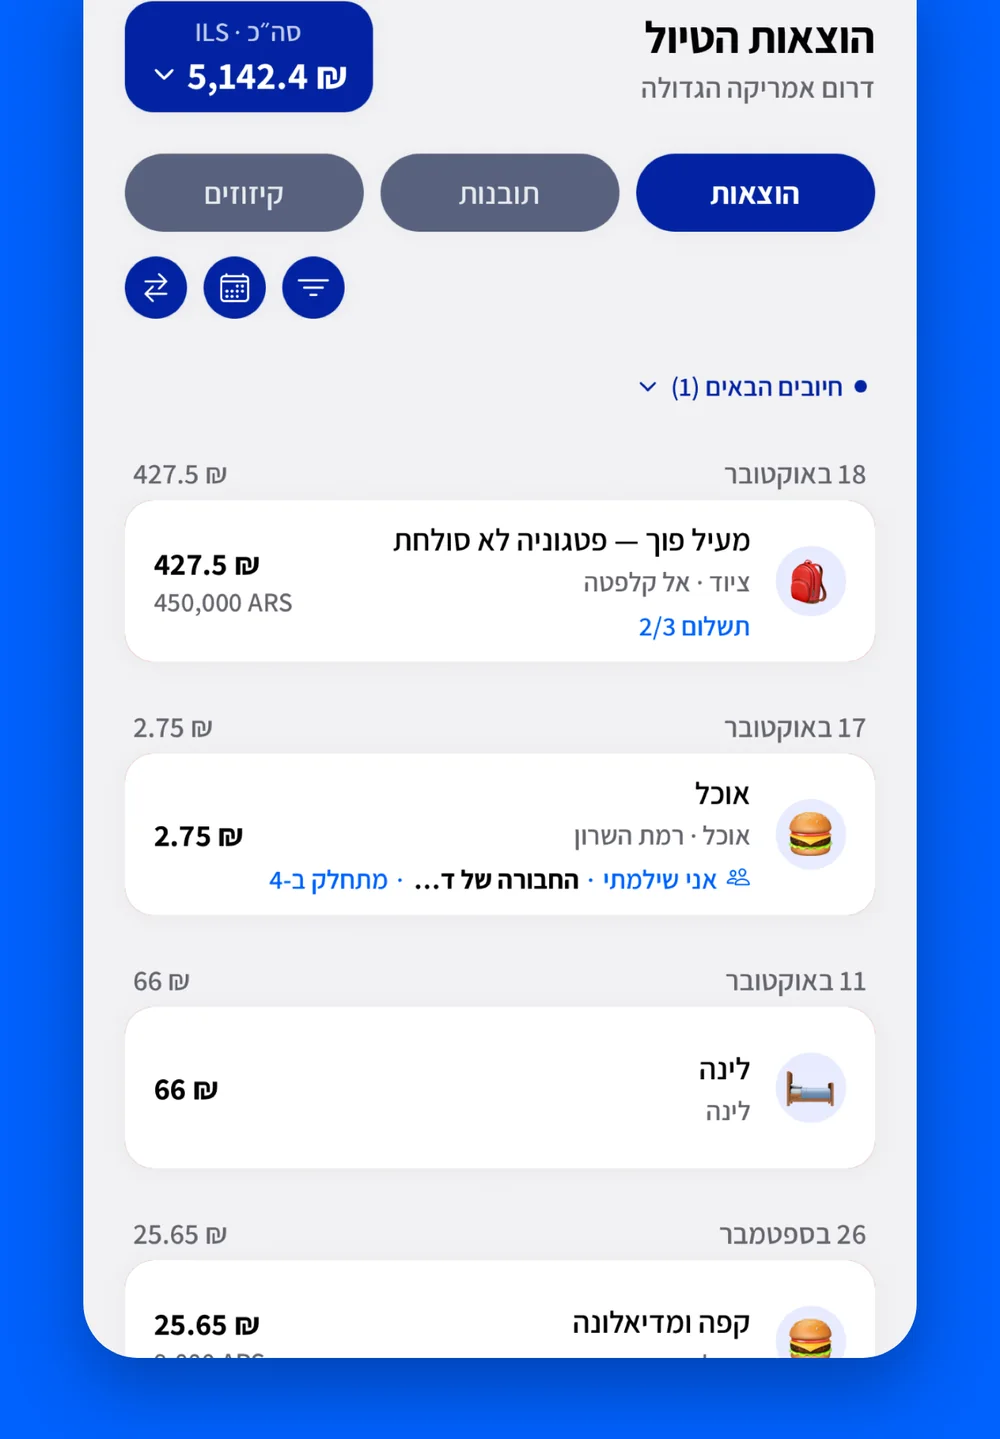
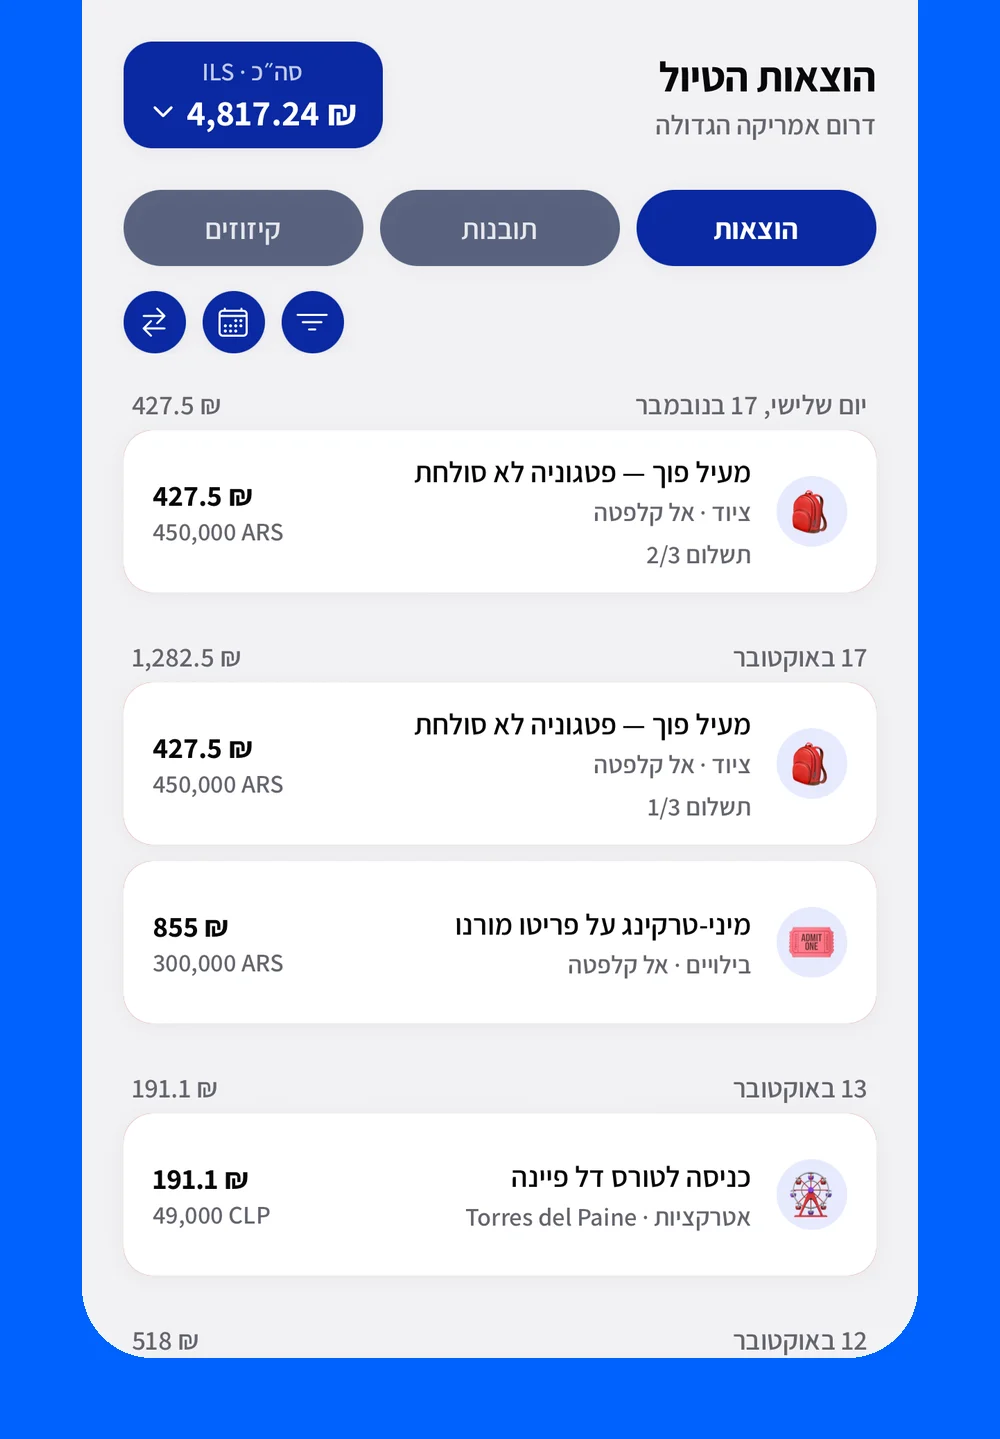
אתר: צילום מסך ההוצאות המעודכן (בלי רמת השרון ובלי שם קבוצה חתוך)

diff --git a/index.html b/index.html
@@ -77,7 +77,7 @@
             <p class="lede rv">פסו, באט, דולר. רושמים בשנייה ורואים מיד כמה זה יצא בשקלים: ליום, למדינה ולכל הטיול. אפשר גם פשוט לצלם קבלה.</p>
           </div>
           <div class="media media-top rv-img">
-            <img src="img/s/money-1000.webp" srcset="img/s/money-600.webp 600w, img/s/money-1000.webp 1000w" sizes="(max-width: 734px) 92vw, 460px" width="1000" height="1439" loading="lazy" decoding="async" alt="מסך הוצאות הטיול: כל הוצאה במטבע המקומי ובשקלים, וסך הכל 5,142 ש״ח">
+            <img src="img/s/money-1000.webp" srcset="img/s/money-600.webp 600w, img/s/money-1000.webp 1000w" sizes="(max-width: 734px) 92vw, 460px" width="1000" height="1439" loading="lazy" decoding="async" alt="מסך הוצאות הטיול: כל הוצאה במטבע המקומי ובשקלים, וסך הכל 4,817 ש״ח">
           </div>
         </div>
       </div>
